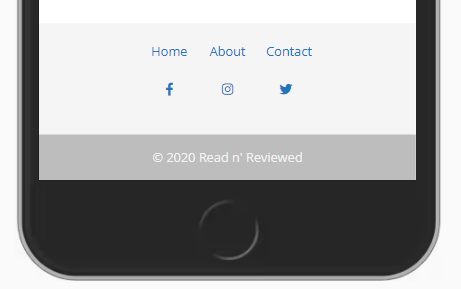
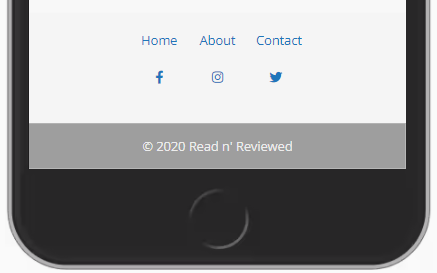
docs: Write up the Site Owner Tested User Stories and include screenshots which visually document the individual stories.

diff --git a/templates/edit_profile.html b/templates/edit_profile.html
@@ -1,6 +1,13 @@
 {% extends "base.html" %}
 {% block content %}
     <h3>Edit Profile</h3>
+    <div class="row container">
+        <div class="col s12">
+            <p class="center">
+                Want to change your password? Simply fill out the form below and Submit your new password.
+            </p>
+        </div>
+    </div>
     <!-- Edit Profile Form -->
     <!-- Card Component copied from https://materializecss.com/cards.html and modified -->
     <div class="row container">
@@ -12,7 +19,7 @@
                         <!-- Username Field-->
                         <div class="input-field col s12">
                             <i class="fas fa-user prefix"></i>
-                            <input id="username" name="username" type="text" disabled value="{{ username }}">
+                            <input id="username" name="username" type="text" disabled value="{{ username }}" autocomplete="username">
                             <label for="username">Username:</label>
                         </div>
                     </div>
@@ -28,7 +35,7 @@
                         <!-- Current Password Field -->
                         <div class="input-field col s12">
                             <i class="fas fa-lock prefix"></i>
-                            <input id="currentPassword" name="currentPassword" type="password" required>
+                            <input id="currentPassword" name="current-password" type="password" minlength="8" maxlength="15" pattern="^.*[a-zA-Z0-9',.-]+.*$" autocomplete="current-password" required>
                             <label for="currentPassword">Enter your Current Password:</label>
                         </div>
                     </div>
@@ -36,7 +43,7 @@
                         <!-- New Password Field -->
                         <div class="input-field col s12">
                             <i class="fas fa-user-lock prefix"></i>
-                            <input id="newPassword" name="newPassword" type="password" required>
+                            <input id="newPassword" name="new-password" type="password" minlength="8" maxlength="15" pattern="^.*[a-zA-Z0-9',.-]+.*$" class="validate tooltipped" data-position="bottom" data-tooltip="Password cannot contain spaces and must be between 8 and 15 charachters in length." autocomplete="new-password" required>
                             <label for="newPassword">Enter Your New Password:</label>
                         </div>
                     </div>

diff --git a/templates/register.html b/templates/register.html
@@ -12,7 +12,7 @@
                         <!-- Username Field-->
                         <div class="input-field col s12">
                         <i class="fas fa-user-plus prefix"></i>
-                        <input id="username" name="username" type="text" minlength="8" maxlength="15" pattern="^[a-zA-Z0-9]{8,15}$" class="validate tooltipped" data-position="bottom" data-tooltip="Username cannot contain spaces and must be between 8 and 15 charachters in length." required>
+                        <input id="username" name="username" type="text" minlength="8" maxlength="15" pattern="^[a-zA-Z0-9]{8,15}$" class="validate tooltipped" data-position="bottom" data-tooltip="Username cannot contain spaces and must be between 8 and 15 charachters in length." autocomplete="username" required>
                         <label for="username">Username</label>
                         </div>
                     </div>
@@ -20,7 +20,7 @@
                         <!-- Password Field -->
                         <div class="input-field col s12">
                         <i class="fas fa-lock prefix"></i>
-                        <input id="password" name="password" type="password" minlength="8" maxlength="15" pattern="^[a-zA-Z0-9]{8,15}$" class="validate tooltipped" data-position="bottom" data-tooltip="Password cannot contain spaces and must be between 8 and 15 charachters in length." required>
+                        <input id="password" name="password" type="password" minlength="8" maxlength="15" pattern="^.*[a-zA-Z0-9',.-]+.*$" class="validate tooltipped" data-position="bottom" data-tooltip="Password cannot contain spaces and must be between 8 and 15 charachters in length." autocomplete="new-password" required>
                         <label for="password">Password</label>
                         </div>
                     </div>

diff --git a/templates/login.html b/templates/login.html
@@ -12,7 +12,7 @@
                         <!-- Username Field-->
                         <div class="input-field col s12">
                         <i class="fas fa-user prefix"></i>
-                        <input id="username" name="username" type="text" minlength="8" maxlength="25" pattern="^[a-zA-Z0-9]{8,15}$" class="validate" required>
+                        <input id="username" name="username" type="text" minlength="8" maxlength="25" pattern="^[a-zA-Z0-9]{8,15}$" class="validate" autocomplete="username" required>
                         <label for="username">Username</label>
                         </div>
                     </div>
@@ -20,7 +20,7 @@
                         <!-- Password Field -->
                         <div class="input-field col s12">
                         <i class="fas fa-lock prefix"></i>
-                        <input id="password" name="password" type="password" class="validate" required>
+                        <input id="password" name="password" type="password" minlength="8" maxlength="25" pattern="^.*[a-zA-Z0-9',.-]+.*$" class="validate" autocomplete="current-password" required>
                         <label for="password">Password</label>
                         </div>
                     </div>

diff --git a/templates/base.html b/templates/base.html
@@ -141,7 +141,7 @@
                 </div>
             </div>
         </div>
-        <div class="footer-copyright grey lighten-1">
+        <div class="footer-copyright grey">
             <div class="container center-align">
                 © 2020 Read n' Reviewed
             </div>

diff --git a/static/css/style.css b/static/css/style.css
@@ -18,7 +18,7 @@ body {
     background-color: #9E9E9E;
 }
 
-.bg-grey:hover,
+bg-grey:hover,
 .bg-grey:active,
 .bg-grey:focus {
     background-color: #8F8F8F;

diff --git a/app.py b/app.py
@@ -296,18 +296,18 @@ def edit_profile(username):
         return redirect(https_url_for("login"))
 
     if request.method == "POST":
+        new_password = generate_password_hash(request.form.get("new-password"))
         # Ensure hashed password matches user input
         if check_password_hash(
-                user["password"], request.form.get("currentPassword")):
-            new_password = generate_password_hash(
-                request.form.get("newPassword"))
+                user["password"], request.form.get(
+                    "current-password")):
             mongo.db.users.update_one(
                 {"username": username},
                 {"$set": {"password": new_password}})
             flash("Password Updated")
             return redirect(https_url_for("profile", username=session["user"]))
         else:
-            flash("Password Incorrect")
+            flash("Passwords Do Not Match")
             return redirect(https_url_for("profile", username=session["user"]))
 
 

diff --git a/README.md b/README.md
@@ -726,6 +726,10 @@ are hovered over.  These clearly state what format the username and password sho
 
 ![alt text](documentation/readme-images/registration-form-mobile-view.png "Screenshot of the Read n' Reviewed Registration Form.")
 <br>
+<br>
+
+##### back to [top](#table-of-contents)
+---
 
 #### Existing User
 
@@ -733,19 +737,117 @@ I am an existing Read n’ Reviewed site member I want to be able to:
 
 &#9745;	Log in to the site.
 
+When the Read n' Reviewed homepage is loaded the user can log into the site using the User icon which is visible at all times on the navigation bar
+on all viewing devices.  The icon, when clicked, reveals a dropdown menu with two options: Register and Login.
+
+![alt text](documentation/readme-images/new-user-dropdown-menu.png "Screenshot of a logged-out user's dropdown menu.")
+<br>
+
+When the user selects Login, they are brought to the Login page which consists of a clearly laid out form asking the user to input their username and password.
+
+![alt text](documentation/readme-images/login-mobile-view.png "Screenshot of the Login page as it appears when viewed on a mobile device.")
+<br>
+
 &#9745; Navigate through the site with ease.
+
+Ease of navigation through the site is facilitated through the provision of a navigation bar at the top of the screen.
+
+![alt text](documentation/readme-images/logged-in-user-desktop-navbar.png "Screenshot of the navbar visible to logged-in users when the site is viewed on a desktop screen.")
+<br>
+
+The links available to the logged-in user: Home, My Reviews, My Wish List and Browse are visible 
+on the navbar on desktop view and are accessible through the hamburger icon on the mobile navbar.
+
+![alt text](documentation/readme-images/side-nav-logged-in-user.png "Screenshot of the side navigation menu links available to the logged-in user.")
+<br>
+
+The User icon, which is visible on the navbar on all screen sizes, opens a dropdown menu to reveal the Profile and Log Out links.
+
+![alt text](documentation/readme-images/logged-in-user-dropdown-menu.png "Screenshot of the user dropdown menu.")
+<br>
+
+Similarly, the magnifying-glass icon which opens the Search page is visible on all screens.
+
+![alt text](documentation/readme-images/search-mobile-view.png "Screenshot of the search page, as it displays when viewed on a mobile device.")
+<br>
+
+Within the site footer, present on all pages, there are links to the Home Page, About Us section on the Home Page and the Contact Us Page.
+Beneath that there are three company logos which act as external links to the site's social media pages on 
+Facebook, Instagram and Twitter.
 
 &#9745;	Log out of the site.
 
+When a user is logged into the Read n' Reviewed site the Log Out button is to be found in the dropdown menu, which appears when the User icon on the navigation bar, is clicked.
+
+![alt text](documentation/readme-images/logged-in-user-dropdown-menu.png "Screenshot of showing the Log Out button within the User dropdown menu.")
+<br>
+
+Clicking the Log Out link, logs the user out immediately and flashes a message to the screen.
+
+![alt text](documentation/readme-images/logged-out-flash-message.png "Screenshot of showing the flash messaged that appears when the user logs out.")
+<br>
+
 &#9745;	Edit my account information.
+
+When a user logs into the Read n' Reviewed site they can access their Profile page using the User icon which is visible at all times on the navigation bar
+on all viewing devices.  This icon expands into a dropdown menu when clicked.
+
+![alt text](documentation/readme-images/logged-in-user-dropdown-menu.png "Screenshot of a logged-in user's dropdown menu.")
+<br>
+
+Selecting the Profile link brings the logged-in user to their personal Profile page
+on which they can see their username and email address.
+
+![alt text](documentation/readme-images/profile-page-mobile-view.png "Screenshot of a user's profile page as it appears when viewed on a mobile device.")
+<br>
+
+An orange Edit button, below this information, brings the user to the Edit Profile page where they can reset their password if they wish.
+
+![alt text](documentation/readme-images/edit-profile-mobile-view.png "Screenshot of the Edit Profile page as it appears when viewed on a mobile device.")
+<br>
 
 &#9745;	Read the most recent book reviews added to the site, which will give me an idea of what books are being read by other site members right now.
 
+When the user navigates to the site they are presented with the two latest books to be reviewed on the Read n' Reviewed site.
+
+![alt text](documentation/readme-images/latest-reviews-mobile-view.png "Screenshot of the Latest Reviews section of the home page as it appears when viewed on a mobile device.")
+<br>
+
 &#9745;	Search for my next book to read based on reviews written by fellow book lovers, reviews that are ranked by popularity.
+
+Users can use the Search page, accessible at all times through the magnifying-glass icon link on the navigation bar, to search the Read n' Reviewed site for a book title or for a specific author.
+
+![alt text](documentation/readme-images/search-result-mobile-view.png "Screenshot of the Search Result page and results as it appears when viewed on a mobile device.")
+<br>
+
+If reviews exist, for a specific book, within the site, they are displayed below the general book information on the View Book page.
+
+![alt text](documentation/readme-images/reviews-tablet-device.png "Screenshot of book reviews ordered by popularity and date created.")
+<br>
+
+The reviews are ordered by popularity, gauged by the number of times fellow users have up-voted them, and then by date written.
+In this way, the viewer is presented with the most popular, and accurate reviews first, or failing that, with the most recent reviews.
 
 &#9745;	Read general information about the books, including the authors’ names and the publication dates as well as being able to see images of the book covers.
 
+General information about the books reviewed on the site can be seen on the Home page, the Browse page, the View Book page, the My Reviews page, the Wish List page 
+and on the Search results page. 
+
+Within the View Book page for an individual book the user is provided, if the information is available from the Google Books API,
+with the image of the book cover, the title of the book, the author's name, the book category, a general description of the book, the
+page count, the date it was published, the publisher and the book's ISBN 13 number. 
+
+![alt text](documentation/readme-images/view-book-mobile-view.png "Screenshot of the View Book Page as it appears when viewed on a mobile device.")
+<br>
+
 &#9745;	Be facilitated in my goal of buying a specific book immediately through direct links to an online book store.
+
+Purchase links are provided on the Wish List page and the View Book page.  
+These blue buttons, with their self-explanatory shopping bag icon, bring the logged-in user directly to the Amazon Search Results page for the current book title and author. 
+If the reader has reviewed the book already, the purchase link is no longer displayed as it is presumed that they have already purchased the book.
+
+![alt text](documentation/readme-images/wish-list-mobile-view.png "Screenshot of the Wish List Page showing the 'Buy' button with its shopping bag icon.")
+<br>
 
 &#9745;	Search to see whether a book has already been reviewed on the site by entering the book title, or author into a search box within the site.
 
@@ -920,10 +1022,128 @@ The user is asked for their name, email address and enquiry.  Submitting the for
 ![alt text](documentation/readme-images/contact-us-form-mobile-view.png "Screenshot of Read n' Reviewed Contact Us page as it appears when viewed on a mobile device.")
 <br>
 
+<br>
+
+##### back to [top](#table-of-contents)
+---
+
 
 
 
 #### Site Owner
+
+As the owner of Read n' Reviewed website I would like:
+
+&#9745;	Provide site members with an effective and user-friendly platform where they can read book reviews written by other avid readers so that they make more informed choices when choosing their next book to read.
+
+&#9745;	Provide site members with a user-friendly way to share their own reviews of books, edit those reviews or delete them as they see fit.
+
+&#9745;	Present the reviews in a visually appealing format.
+
+Each book review is presented with the book cover image, where available from Google Books API.
+This adds colour and interest to the website.
+
+![alt text](documentation/readme-images/my-reviews-desktop-view.png "Screenshot of Read n' Reviewed My Reviews page as it appears when viewed on a desktop screen.")
+<br>
+
+The star rating attributed to each book is displayed using eye-catching and visually appealing orange star icons.
+
+&#9745;	Provide an up-voting functionality for members to express their satisfaction with particular reviews.
+
+When a user is logged in and navigates to the View Book page for a particular book, they have access to an Up-vote button
+which is displayed beside other Read n' Reviewed members' reviews. This allows the logged-in user to vote for 
+other members' reviews that they feel are accurate or helpful.
+
+![alt text](documentation/readme-images/upvote-review-tablet-view.png "Screenshot the Upvote Review button beside a review on the View Book page.")
+<br>
+
+&#9745;	Provide site members with the ability to search the site for a specific book by entering the title or the author into a search box within the site.
+
+The link to the Search page, the magnifying-glass icon, is visible on the site navigation bar regardless of the viewing screen dimensions.
+When clicked, this opens the Search page.  The user can search the Read n' Reviewed site for a book by entering the title or the author or both into the
+text input field and clicking the Search button.
+
+![alt text](documentation/readme-images/search-mobile-view.png "Screenshot of the Search page as it appears when viewed on a mobile device.")
+<br>
+
+&#9745;	Provide users with general information about the books reviewed, including the author’s name and publication date and an image of the book cover.
+
+Book cover images, titles and authors are displayed on the Home Page, Wish List, My Reviews and Browse pages.
+Further information is provided on the View Book and My Review pages.  Here, the user is presented with a 
+general description of the book in question, along with the publication date, publisher, page count and ISBN 13 number.
+
+![alt text](documentation/readme-images/view-book-tablet-view.png "Screenshot of the View Book page as it appears when viewed on a tablet device.")
+<br>
+
+&#9745;	Raise revenue by directing site members to a partner online book store where they can buy the books they are interested in.
+
+When a logged-in user navigates to their Wish List or to the View Book page for a book they have not yet reviewed they are presented with a blue
+'Buy it Now' button.  
+
+![alt text](documentation/readme-images/upvote-review-tablet-view.png "Screenshot of the Buy It Now button on the View Book page for The Thursday Murder Club by Richard Osmond.")
+<br>
+
+This button opens a new tab in the user's browser and displays the Amazon search results page for that book and author.
+
+![alt text](documentation/readme-images/amazon-search-results-page.png "Screenshot of the Amazon Search Results page for The Thursday Murder Club by Richard Osmond")
+<br>
+
+&#9745;	Encourage more members to join the community by creating a professional-looking website that is intuitive to use and displays positive member testimonials on the landing page. 
+
+New and existing users can view Read n' Reviewed member testimonials on the Home Page of the site.
+
+![alt text](documentation/readme-images/member-testimonials-mobile-view.png "Screenshot of the Member Testimonials carousel on the home page as it appears when viewed on a mobile device.")
+<br>
+
+&#9745;	Provide prospective members with the ability to sign-up easily.
+
+When a prospective site member navigates to the Read n' Reviewed home page they are presented with three different links to the register.html page.
+An eye-catching orange call-to-action 'Register' button is prominently displayed on the banner image.  
+
+![alt text](documentation/readme-images/homescreen-mobile-view.jpg "Screenshot of the call-to-action Register button on the banner image as it appears when viewed on a mobile device.")
+<br>
+
+Another similar button is displayed under the About Us section which is located further down the home page.
+
+![alt text](documentation/readme-images/about-us-mobile-view.png "Screenshot of the About Us section and call-to-action button as it appears when viewed on a mobile device.")
+<br>
+
+
+The User icon on the navigation bar, visible on all viewing devices, reveals a dropdown menu with a link to the register.html page.
+
+![alt text](documentation/readme-images/new-user-dropdown-menu.png "Screenshot of the register link within the User dropdown menu.")
+<br>
+
+When the prospective site member opens the register.html page they are presented with a simple form, which is clearly labelled.
+Intuitive icons and placeholder text make it clear where the user should enter their username, password and email address in order to sign up to become members of the site.
+Tooltips appear when the input fields are hovered over.  These clarify what format the username and password should take.
+
+![alt text](documentation/readme-images/registration-form-mobile-view.png "Screenshot of the registration form as it appears when viewed on a mobile device.")
+<br>
+
+&#9745;	Encourage more visitors to follow the site on social media and thereby raise the profile of the site.
+
+Links to the site's associated Facebook, Instagram and Twitter accounts are presented to the user in the footer area at the bottom of each screen.
+
+![alt text](documentation/readme-images/footer-mobile-view.png "Screenshot of the site footer with social media links as it appears when viewed on a mobile device.")
+<br>
+
+
+&#9745;	Provide visible contact details so that all site visitors can contact the site administrator with ease.
+
+Within the footer on each page on the site, both logged-in and non-Read-n'-Reviewed members are presented with a link to the Contact page.
+
+![alt text](documentation/readme-images/footer-mobile-view.png "Screenshot of the site footer as it appears when viewed on a mobile device.")
+<br>
+
+Clicking on this link opens the contact.html page, which contains a simple, clearly labelled form.
+
+![alt text](documentation/readme-images/contact-us-form-mobile-view.png "Screenshot of the Contact Us form as it appears when viewed on a mobile device.")
+<br>
+
+When the user submits the form an email is sent to the site administrator containing the information provided.
+
+&#9745;	Search for my next book to read based on reviews written by fellow book lovers.
 
 <br>
 
